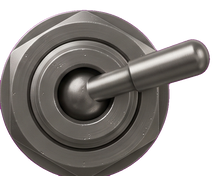
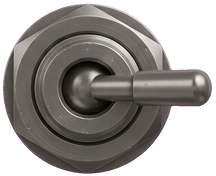
Make Maelstrom mode toggle symmetric

diff --git a/src/MaelstromEditor.cpp b/src/MaelstromEditor.cpp
@@ -340,8 +340,11 @@ class MaelstromUI final : public UI
         caption(194, y, "SMOOTH", 11);
         caption(326, y, "GRIT", 11);
         const auto &material = gritty ? toggleRight : toggleLeft;
-        if (material.isValid())
-            image(material, gritty ? 232 : 224, y - 30, 72, 59);
+        if (material.isValid()) {
+            // The mirror axis is the socket, not the image canvas center.
+            const double x = gritty ? MaelstromToggleRightX : MaelstromToggleLeftX;
+            image(material, x, y - 30, 72, 59);
+        }
     }
 
     DGL_NAMESPACE::NanoImage enclosure;

diff --git a/tests/MaelstromMockup.cpp b/tests/MaelstromMockup.cpp
@@ -289,7 +289,8 @@ class MaelstromMockup final : public UI
     {
         caption(194, MaelstromModeY, "SMOOTH", 11);
         caption(326, MaelstromModeY, "GRIT", 11);
-        image(grit ? toggleRight : toggleLeft, grit ? 232 : 224, MaelstromModeY - 30, 72, 59);
+        const double x = grit ? MaelstromToggleRightX : MaelstromToggleLeftX;
+        image(grit ? toggleRight : toggleLeft, x, MaelstromModeY - 30, 72, 59);
     }
 
     NanoImage enclosure, knobMaterial, footMaterial, ledOff, ledOn, toggleLeft, toggleRight;

diff --git a/src/MaelstromParameters.hpp b/src/MaelstromParameters.hpp
@@ -49,6 +49,8 @@ inline float sanitizeMaelstrom(std::uint32_t index, float value) noexcept
 }
 
 inline constexpr double MaelstromModeY = 280;
+inline constexpr double MaelstromToggleLeftX = 224;
+inline constexpr double MaelstromToggleRightX = 235;
 
 inline float normalizedMaelstrom(std::uint32_t index, float value) noexcept
 {

diff --git a/assets/runtime/MAELSTROM-NOTICE.md b/assets/runtime/MAELSTROM-NOTICE.md
@@ -52,10 +52,10 @@ The prepared PNGs use a 20% magenta key, a two-pixel alpha erosion, transparent
 pixel decontamination and Lanczos downsampling to reduce the colored fringe and
 minimize aliasing at the displayed size. `maelstrom-led-on.png` is the 581x582
 crop at `+1509+165` from the sheet. The toggle-left asset comes from the isolated
-PNG; toggle-right is the second physical position cropped at `+1515+1025` from
-the sheet. Their source socket centers differ, so at the 72x59 display size the
-UI shifts the right image by eight pixels to keep the pivot stationary while the
-lever moves. The files are named
+PNG; toggle-right is its horizontal mirror. The socket is not centered in the
+image canvas, so the UI shifts the mirrored state 11 pixels at the 72x59 display
+size, keeping the pivot stationary and giving a symmetrical horizontal throw.
+The files are named
 left/right because their physical orientation, not an electrical on/off
 function, is what the pedal UI displays. LED states are separate so effect bypass
 can change the light without repainting the artwork.
@@ -75,8 +75,8 @@ magick assets/ui/textures/Toggle_on-v01.png -alpha set -fuzz 20% \
   -transparent '#ff00ff' -channel A -morphology Erode Disk:2 +channel \
   -channel RGB -fx 'a==0?0:u' +channel -filter Lanczos -resize 216x176 -strip \
   assets/runtime/maelstrom-toggle-left.png
-magick assets/ui/textures/LED_and_Toggle-v01.jpeg -crop 714x583+1515+1025 +repage \
-  -alpha set -fuzz 20% -transparent '#ff00ff' -channel A \
+magick assets/ui/textures/Toggle_on-v01.png -flop -alpha set -fuzz 20% \
+  -transparent '#ff00ff' -channel A \
   -morphology Erode Disk:2 +channel -channel RGB -fx 'a==0?0:u' +channel \
   -filter Lanczos -resize 216x176 -strip assets/runtime/maelstrom-toggle-right.png
 ```

diff --git a/assets/SOURCES.md b/assets/SOURCES.md
@@ -51,9 +51,9 @@ Gemini Nano Banana using a personal Gmail account and approved its use in the
 project. The source sheet used the assistant-provided prompt; no third-party
 reference material was used. No exact model revision or generation date is known.
 The original files remain unchanged and gitignored. Four prepared derivatives are
-embedded in Maelstrom: lit/unlit LED states and left/right toggle states. The
-toggle states come from the matching left/right illustrations on the source
-sheet; the UI aligns the two images by their socket centers. The public project
+embedded in Maelstrom: lit/unlit LED states and left/right toggle states. Both
+toggle images come from the isolated toggle PNG; the right position mirrors the
+left artwork, and the UI offsets it so the socket stays fixed. The public project
 and plugin use is approved to the extent applicable rights allow;
 this does not assert exclusive ownership or guaranteed third-party clearance.
 See `runtime/MAELSTROM-NOTICE.md` for hashes, preparation details and the notice
